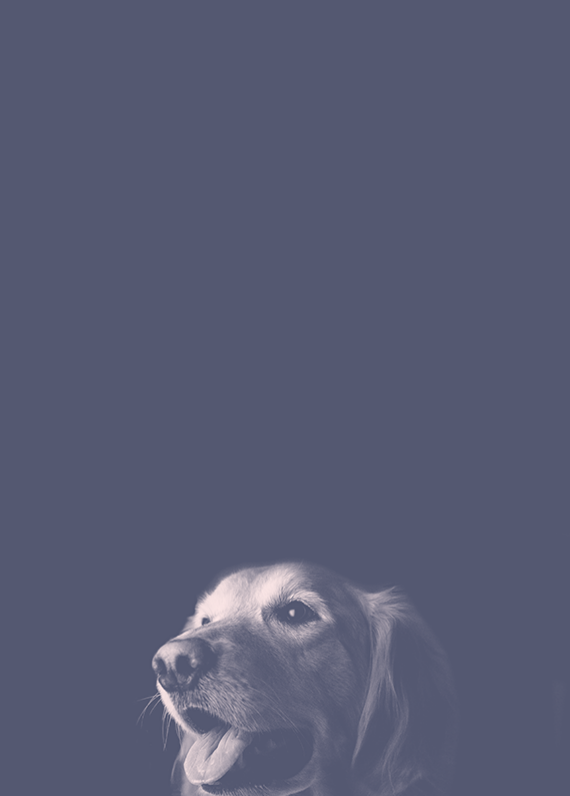
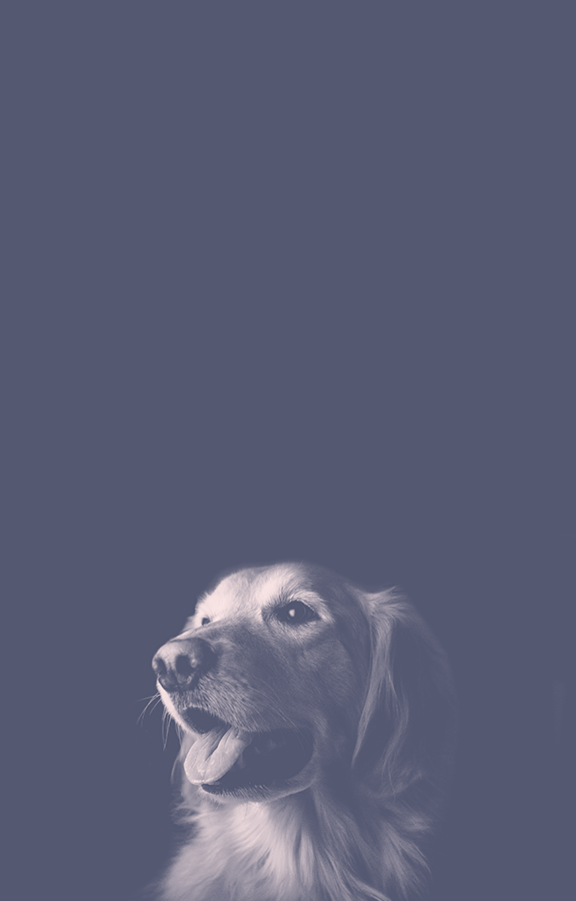
update dog image. start layout of right side

Changed region(s): [[0.2684, 0.603, 0.686, 1.0], [0.5965, 0.6332, 0.7456, 0.995], [0.5965, 0.8141, 0.6263, 0.8442]]

diff --git a/pawtastic/src/App.css b/pawtastic/src/App.css
@@ -1,7 +1,4 @@
-App {
-/* border: purple; */
 
-}
 
 ul {
   list-style-type: none;
@@ -13,112 +10,169 @@ a {
   color: white;
   font-size: 20px;
 }
+
 .menuItems:link, .menuItems:visited {
   text-decoration: none;
 }
 
+.container {
+  display: flex;
+  flex-direction: row;
 
-.LefNavContainer {
-
-/* border: solid purple; */
-  width: 40%;
-  min-width: 500px;
+  border: #545871;
+  width: 100%;
+  height: auto;
 }
 
-  .dogImgBox {
-
-/* border: solid green; */
-
-    width: 100%;
-    position: relative;
+  .RightFormContainer {
+    width: 60%;
+border: solid green;
   }
-    .dogImg {
+
+    .petBasicsTitle {
+      margin: 0 auto;
+      width: 60%;
+      text-align: center;
+      font-size: 30px;
+
+      margin-top: 5%;
+    }
+
+    .inputContainer {
+      margin: 0 auto;
+      display: grid;
+      grid-template-columns: 1fr 1fr 1fr 1fr;
+      grid-template-rows: 4fr;
+
+      width: 80%;
+      height: 80%;
+
+border: solid blue;
+    }
+    
+      .nameInputBox {
+        grid-column: 1/3;
+        grid-row: 1;
+      }
+
+      .breedInputBox {
+        grid-column: 3/5;
+        grid-row: 1;
+      }
+      
+      .birthdayInputBox {
+        grid-column: 1/3;
+        grid-row: 3;
+      }
+
+
+
+
+  /***************************************************************
+                        Left Nav Bar styling 
+   ***************************************************************/
+
+  .LefNavContainer {
+
+  /* border: solid purple; */
+    width: 40%;
+    min-width: 500px;
+  }
+
+    .dogImgBox {
+
+  /* border: solid green; */
+
       width: 100%;
+      position: relative;
     }
-
-    .logoBox {
-      position: absolute;
-      top: 10%;
-      left: 25%; 
-      width: 75%;
-
-      max-height: 30px;
-      display: flex;
-      flex-direction: row;
-
-/* border: solid yellow; */
-    }
-
-      .logoImg {
-        width: 30px;
-        height: 30px;
+      .dogImg {
+        width: 100%;
       }
 
-      .logoTxt {
-        position: relative;
-        top: -8px;
-        left: 10px;
-
-        font-family: sans-serif;
-        color: white;
-      }
-
-    .navBarBox {
-      position: absolute;
-      top: 30%;
-      left: 25%; 
-
-      display: flex;
-      flex-direction: row;
-      width: 40%;
-      height: 30%;
-
-/* border: solid yellow; */
-    }
-
-      .verticalBubbleBar{
-        height: 100%;
-  /* border: solid lime; */
-
-        margin-left: 5px;
-      }
-
-      .concentricGroupBox {
-        display: flex;
-        flex-direction: column;
-        justify-content: space-between;
-        height: 100%;
-
+      .logoBox {
         position: absolute;
-        left: -3px;
-      }
+        top: 10%;
+        left: 25%; 
+        width: 75%;
 
-      #CC0, #CC1, #CC2, #CC3 {
-        z-index: -1;  
-      }
-
-      .navBar {
-
-        height: 100%;
-
+        max-height: 30px;
         display: flex;
-        flex-direction: column;
-        justify-content: space-between;
+        flex-direction: row;
 
-        font-size: 16px;
-        margin-left: 15px;
-
-  /* border: solid red; */
+  /* border: solid yellow; */
       }
 
-        #menuItem0, #menuItem1, #menuItem2, #menuItem3 {
-          color: #9597A6;
+        .logoImg {
+          width: 30px;
+          height: 30px;
         }
 
-    .exitLink {
-      position: absolute;
-      left: 25%;
-      bottom: 10px;
-      width: 100%;
-      font-size: 16px;
-    }
+        .logoTxt {
+          position: relative;
+          top: -8px;
+          left: 10px;
+
+          font-family: sans-serif;
+          color: white;
+        }
+
+      .navBarBox {
+        position: absolute;
+        top: 30%;
+        left: 25%; 
+
+        display: flex;
+        flex-direction: row;
+        width: 40%;
+        height: 30%;
+
+  /* border: solid yellow; */
+      }
+
+        .verticalBubbleBar{
+          height: 100%;
+    /* border: solid lime; */
+
+          margin-left: 5px;
+        }
+
+        .concentricGroupBox {
+          display: flex;
+          flex-direction: column;
+          justify-content: space-between;
+          height: 100%;
+
+          position: absolute;
+          left: -3px;
+        }
+
+        #CC0, #CC1, #CC2, #CC3 {
+          z-index: -1;  
+        }
+
+        .navBar {
+
+          height: 100%;
+
+          display: flex;
+          flex-direction: column;
+          justify-content: space-between;
+
+          font-size: 16px;
+          margin-left: 15px;
+
+    /* border: solid red; */
+        }
+
+          #menuItem0, #menuItem1, #menuItem2, #menuItem3 {
+            color: #9597A6;
+          }
+
+      .exitLink {
+        position: absolute;
+        left: 25%;
+        bottom: 10px;
+        width: 100%;
+        font-size: 16px;
+      }

diff --git a/pawtastic/src/components/rightForm.js b/pawtastic/src/components/rightForm.js
@@ -4,14 +4,57 @@ import '../App.css';
 
 export default class RightForm extends Component {
     constructor(props) {
-      super(props);
+        super(props);
  
+        this.state={name: "", breed: "", birthday: "", gender: "Female", 
+                    spayed: "Yes", weight: "Option1"}
     }
+
+
+                handleChange(event) {
+                    this.setState({value: event.target.value}); //update the value state when the form is submitted
+                }
+
 
     render() {
         return (
             <form className="RightFormContainer">
+                <h2 className="petBasicsTitle">Yay, we love dogs! Give us the basics about your pup.</h2><br />
 
+                <div className="inputContainer">
+                    <label className="nameInputBox">
+                        Name<br />
+                        <input className="textInput" type="text" value={this.state.name} onChange={this.handleChange} />
+                    </label>
+
+                    <label className="breedInputBox">
+                        Breed<br />
+                        <input className="textInput" type="text" value={this.state.breed} onChange={this.handleChange} />
+                    </label>
+
+                    <label className="birthdayInputBox">
+                        Birthday<br />
+                        <input className="textInput" type="text" value={this.state.birthday} onChange={this.handleChange} />
+                    </label>
+
+                            {/* <label className="genderSelectionBox">Gender</label>
+                            <br />
+                            <input className="binarySelection" type="button" name="gender" value={this.state.gender} onChange={this.handleChange} />
+                            <input className="binarySelection" type="button" name="gender" value={this.state.gender} onChange={this.handleChange} />
+
+
+
+                            <label className="spayedSelectionBox">
+                                Spayed or Neutered<br />
+                                <input className="binarySelection" type="text" value={this.state.spayed} onChange={this.handleChange} />
+                            </label>
+
+                            <label className="weightSelectionBox">
+                                Spayed or Neutered<br />
+                                <input className="quadSelection" type="text" value={this.state.weight} onChange={this.handleChange} />
+                            </label> */}
+                </div>
+            
             </form>
         )
     }

diff --git a/pawtastic/src/App.js b/pawtastic/src/App.js
@@ -12,10 +12,10 @@ export default class App extends Component {
    render() {
      return (
       <div className="App">
-
-        <LeftNav />
-        <RightForm />
-
+        <div className="container">
+          <LeftNav />
+          <RightForm />
+        </div>
       </div>
      )
    }
